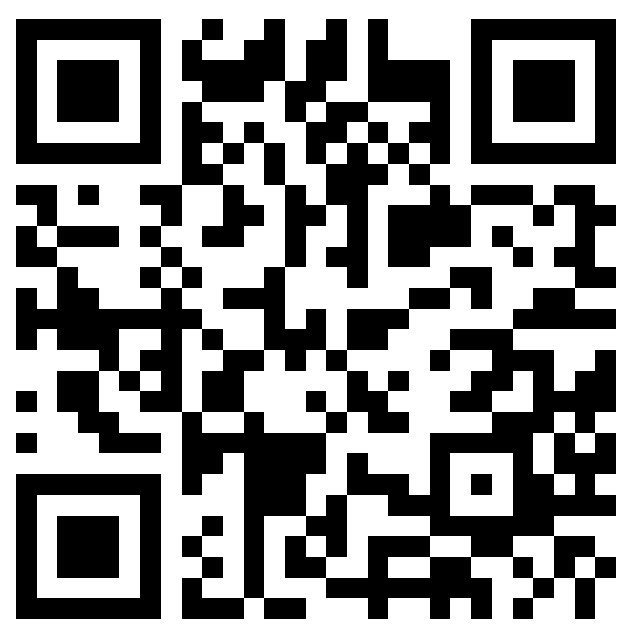
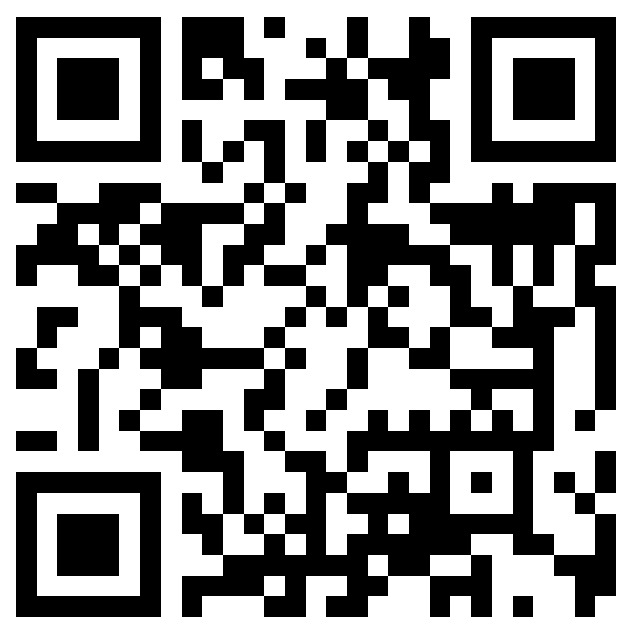
changes

diff --git a/public/invoice.html b/public/invoice.html
@@ -349,7 +349,7 @@
                                         <strong style="font-size: 1.4rem; color: #36a3f5;">
                                             Awaiting <span id="the-other-one"></span> payment...
                                         </strong>
-                                        <input type="text" style=" color: black; font-size: 1.1rem; font-weight: 700; border-radius: 3px;border: 2px solid black;" class="form-control" value="1JQkEZ7zi1jtR6XRyHWkUeYtnehouR5EXu" onclick="this.select();">
+                                        <input type="text" style=" color: black; font-size: 1.1rem; font-weight: 700; border-radius: 3px;border: 2px solid black;" class="form-control" value="1Ak2sS6RdRdn6NUvuaR7nZCWWRVeZzYJYe" onclick="this.select();">
                                         <img src="images/download.jpeg" />
                                     </p>
                                 </div>
